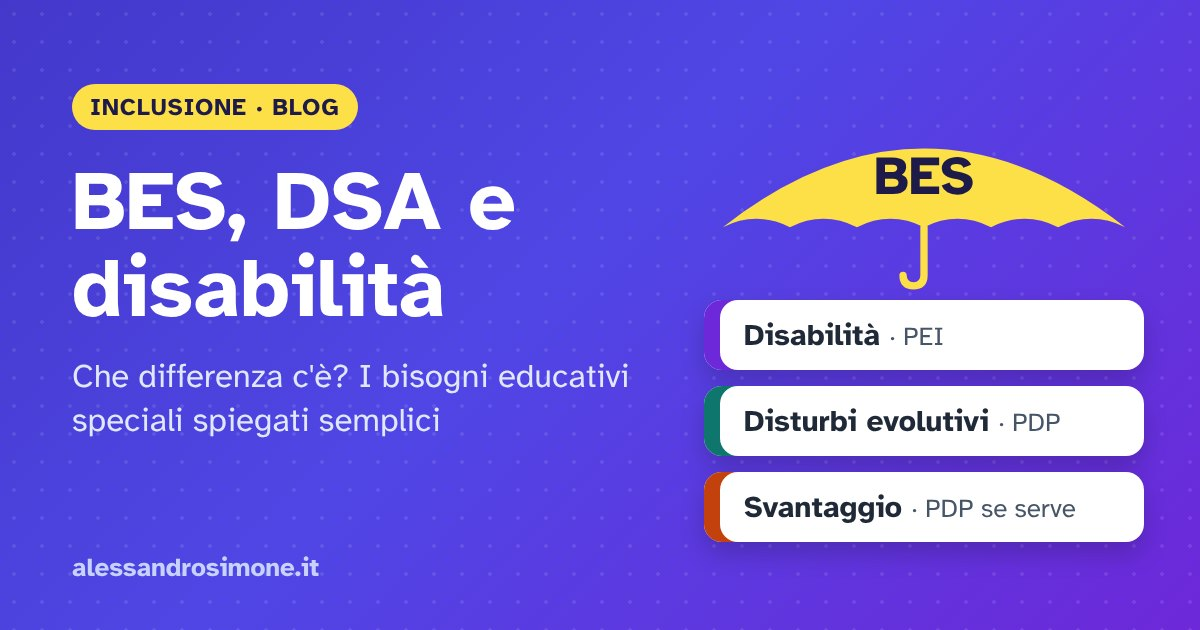
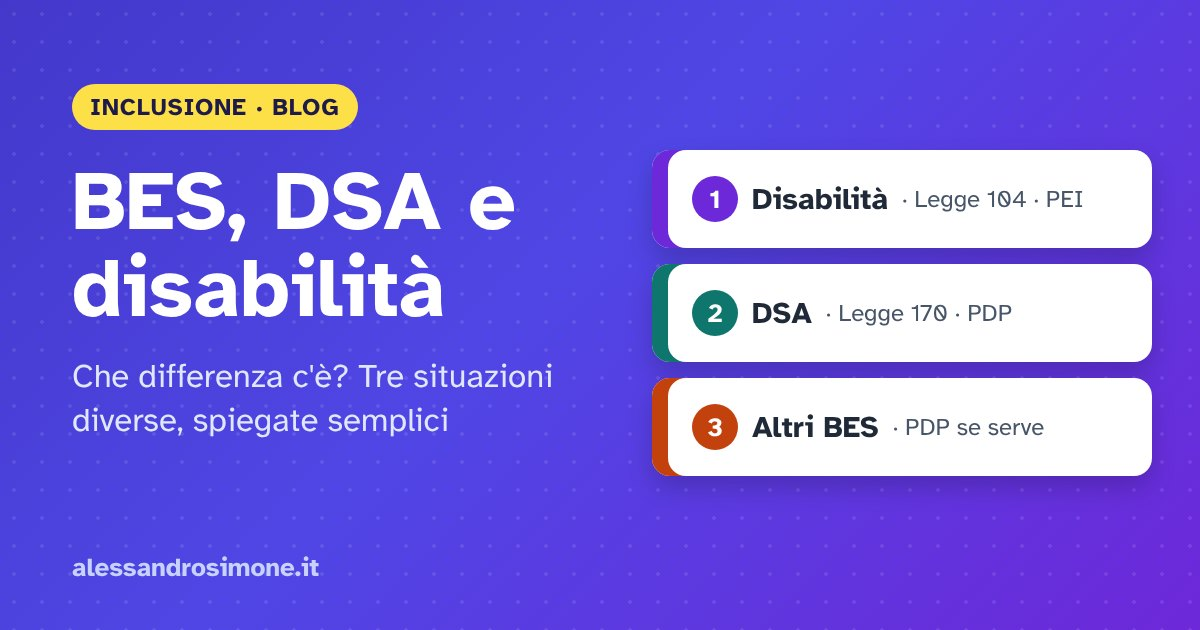
Articolo BES: tre situazioni distinte (104, DSA, altri BES), senza ombrello (bozza)
Su richiesta dell'autore la disabilita' e i DSA non sono piu' presentati
come parti dell'ombrello BES: l'articolo presenta tre situazioni distinte,
nell'ordine Legge 104, DSA (Legge 170) e altri BES, con una nota sul senso
ampio del termine nella direttiva del 2012. Copertina senza ombrello.
Bozza in revisione, non ancora su main.

Claude-Session: https://claude.ai/code/session_01TcAVAr6uKmskBb5yuLbEpH

Changed region(s): [[0.2158, 0.2111, 0.9867, 0.8746], [0.0617, 0.6333, 0.1542, 0.6937]]

diff --git a/articolo-bes-dsa-disabilita.html b/articolo-bes-dsa-disabilita.html
@@ -19,7 +19,7 @@
   <link rel="preconnect" href="https://fonts.gstatic.com" crossorigin>
   <link href="https://fonts.googleapis.com/css2?family=Atkinson+Hyperlegible:wght@400;700&family=Inter:wght@400;500;600;700&family=JetBrains+Mono:wght@400;600&family=Poppins:wght@700;800&display=swap" rel="stylesheet">
   <link rel="stylesheet" href="css/style.css?v=9">
-  <link rel="stylesheet" href="css/lettura-facilitata.css?v=2">
+  <link rel="stylesheet" href="css/lettura-facilitata.css?v=3">
   <link rel="canonical" href="https://alessandrosimone.it/articolo-bes-dsa-disabilita.html">
   <meta name="robots" content="index, follow, max-image-preview:large">
   <link rel="icon" type="image/svg+xml" href="favicon.svg">
@@ -33,7 +33,7 @@
   <meta property="og:image" content="https://alessandrosimone.it/articolo-bes-dsa-disabilita.jpg">
   <meta property="og:image:width" content="1200">
   <meta property="og:image:height" content="630">
-  <meta property="og:image:alt" content="Il titolo «BES, DSA e disabilità» e un ombrello con sotto tre riquadri: disabilità con il PEI, disturbi evolutivi con il PDP, svantaggio con il PDP se serve.">
+  <meta property="og:image:alt" content="Il titolo «BES, DSA e disabilità» e tre riquadri separati e numerati: 1 disabilità con il PEI, 2 DSA con il PDP, 3 altri BES con il PDP se serve.">
   <meta property="article:published_time" content="2026-11-14">
   <meta property="article:section" content="Inclusione">
   <meta name="twitter:card" content="summary_large_image">
@@ -93,7 +93,7 @@
     <h1>BES, DSA e disabilità: che differenza c'è? I bisogni educativi speciali spiegati semplici</h1>
     <p class="byline">14 novembre 2026 — di Alessandro Simone, docente di inclusione e di informatica</p>
 
-    <img class="hero-img" src="articolo-bes-dsa-disabilita.jpg" width="1200" height="630" alt="Copertina dell'articolo: il titolo «BES, DSA e disabilità» e un ombrello con la scritta BES. Sotto l'ombrello ci sono tre riquadri: disabilità con il PEI, disturbi evolutivi con il PDP, svantaggio con il PDP se serve.">
+    <img class="hero-img" src="articolo-bes-dsa-disabilita.jpg" width="1200" height="630" alt="Copertina dell'articolo: il titolo «BES, DSA e disabilità» e tre riquadri separati e numerati: 1 disabilità con il PEI, 2 DSA con il PDP, 3 altri BES con il PDP se serve.">
 
     <div class="reading-tools" role="group" aria-label="Strumenti di lettura">
       <span class="rt-label">Leggi come preferisci:</span>
@@ -110,18 +110,18 @@
     <div class="dsa-box tldr" id="in-breve">
       <h2 class="box-title"><span aria-hidden="true">📌</span> L'articolo in 30 secondi</h2>
       <ul>
-        <li><strong>BES</strong> vuol dire <strong>Bisogni Educativi Speciali</strong>: è un «ombrello» che raccoglie tre gruppi di studenti.</li>
+        <li>A scuola ci sono <strong>tre situazioni diverse</strong>, ognuna con le sue regole: <strong>disabilità</strong>, <strong>DSA</strong> e <strong>altri bisogni educativi speciali (BES)</strong>.</li>
         <li><strong>Disabilità certificata</strong> (Legge 104): la scuola prepara il <strong>PEI</strong> (Piano Educativo Individualizzato) e alla classe è assegnato un <strong>docente di sostegno</strong>.</li>
-        <li><strong>Disturbi evolutivi specifici</strong>: con un <strong>DSA</strong> (Legge 170) il <strong>PDP</strong> (Piano Didattico Personalizzato) è obbligatorio; per altri disturbi, come l'ADHD, lo decide il consiglio di classe. <strong>Non</strong> c'è il docente di sostegno.</li>
-        <li><strong>Svantaggio</strong> economico, sociale, linguistico o culturale: il <strong>PDP</strong> si prepara se lo decide il consiglio di classe, anche solo per un periodo.</li>
+        <li><strong>DSA</strong> (Legge 170): la scuola prepara il <strong>PDP</strong> (Piano Didattico Personalizzato), che è obbligatorio. <strong>Non</strong> c'è il docente di sostegno.</li>
+        <li><strong>Altri BES</strong>, come l'ADHD o una difficoltà con l'italiano: il <strong>PDP</strong> si prepara se lo decide il consiglio di classe, anche solo per un periodo.</li>
       </ul>
     </div>
 
     <nav class="dsa-box toc rt-skip" aria-label="Indice dell'articolo">
       <h2 class="box-title"><span aria-hidden="true">🧭</span> Indice</h2>
       <ol>
-        <li><a href="#cosa-sono">Cosa vuol dire BES?</a></li>
-        <li><a href="#tre-gruppi">I tre gruppi di BES</a></li>
+        <li><a href="#tre-situazioni">Tre situazioni diverse</a></li>
+        <li><a href="#tre-gruppi">Disabilità, DSA e BES, uno per uno</a></li>
         <li><a href="#tabella">BES, DSA e disabilità: la tabella che chiarisce tutto</a></li>
         <li><a href="#sigle">Le sigle da conoscere</a></li>
         <li><a href="#falsi-miti">Quattro falsi miti</a></li>
@@ -137,28 +137,21 @@
     <p>In questa guida ti spiego queste sigle una alla volta, con una tabella e qualche schema. Se una ti sfugge, la trovi in <a href="#sigle">Le sigle da conoscere</a>.</p>
     <p>Lavoro ogni giorno come <a href="/#chi-sono">docente di inclusione</a>, cioè docente di sostegno, e vorrei che tutti gli studenti e tutte le famiglie avessero le idee chiare su queste differenze.</p>
 
-    <h2 id="cosa-sono">Cosa vuol dire BES?</h2>
-    <p><strong>BES</strong> significa <strong>Bisogni Educativi Speciali</strong>. L'espressione è entrata ufficialmente nella scuola italiana con una direttiva ministeriale del <strong>27 dicembre 2012</strong>.</p>
-    <p>Un BES <strong>non è una diagnosi</strong>: è un modo di guardare lo studente. Vuol dire che lo studente, per un periodo più o meno lungo, ha bisogno di un'attenzione in più per imparare al meglio.</p>
-    <p>Il bisogno può essere <strong>permanente</strong>, come una disabilità, oppure <strong>temporaneo</strong>, come la difficoltà con l'italiano di chi è appena arrivato da un altro Paese.</p>
+    <h2 id="tre-situazioni">Tre situazioni diverse</h2>
+    <p>Quando uno studente ha bisogno di un aiuto in più, la scuola parte da una domanda: <strong>in quale situazione si trova?</strong> Le situazioni sono tre, e ognuna ha le sue regole.</p>
+    <p>Le prime due hanno una <strong>legge tutta loro</strong>: la Legge 104 per la disabilità e la Legge 170 per i DSA. La terza, quella dei <strong>BES</strong>, si basa su una direttiva del Ministero ed è la più flessibile.</p>
 
-    <figure class="dsa-figure" aria-labelledby="cap-omb">
-
-      <svg class="umbrella" viewBox="0 0 420 150" xmlns="http://www.w3.org/2000/svg" aria-hidden="true" focusable="false">
-        <path d="M18 104 Q210 -46 402 104 Q370 88 338 104 Q306 88 274 104 Q242 88 210 104 Q178 88 146 104 Q114 88 82 104 Q50 88 18 104 Z" fill="#4f46e5"/>
-        <path d="M210 104 V138 Q210 148 200 148 Q190 148 190 138" fill="none" stroke="#1e1b4b" stroke-width="5" stroke-linecap="round"/>
-        <text x="210" y="80" text-anchor="middle" font-family="Atkinson Hyperlegible, Verdana, Arial, sans-serif" font-weight="700" font-size="40" fill="#fff">BES</text>
-      </svg>
+    <figure class="dsa-figure" aria-labelledby="cap-tre">
       <div class="group-cards">
         <div class="g-card g1"><span class="g-ico" aria-hidden="true">🤝</span><span class="g-num">Gruppo 1</span><span class="g-name">Disabilità certificata</span><span class="g-doc">Legge 104 · PEI</span></div>
-        <div class="g-card g2"><span class="g-ico" aria-hidden="true">📖</span><span class="g-num">Gruppo 2</span><span class="g-name">Disturbi evolutivi specifici: DSA, ADHD e altri</span><span class="g-doc">PDP · obbligatorio per i DSA</span></div>
-        <div class="g-card g3"><span class="g-ico" aria-hidden="true">🌍</span><span class="g-num">Gruppo 3</span><span class="g-name">Svantaggio economico, sociale, linguistico o culturale</span><span class="g-doc">PDP se serve</span></div>
+        <div class="g-card g2"><span class="g-ico" aria-hidden="true">📖</span><span class="g-num">Gruppo 2</span><span class="g-name">DSA: dislessia, disortografia, disgrafia, discalculia</span><span class="g-doc">Legge 170 · PDP</span></div>
+        <div class="g-card g3"><span class="g-ico" aria-hidden="true">🧩</span><span class="g-num">Gruppo 3</span><span class="g-name">Altri BES: per esempio ADHD o difficoltà con l'italiano</span><span class="g-doc">PDP se serve</span></div>
       </div>
-      <figcaption id="cap-omb">I BES sono come un ombrello: sotto ci sono tre gruppi di studenti, ognuno con le sue regole e il suo documento.</figcaption>
+      <figcaption id="cap-tre">Tre situazioni diverse, ognuna con le sue regole e il suo documento: disabilità, DSA e altri bisogni educativi speciali.</figcaption>
     </figure>
 
-    <h2 id="tre-gruppi">I tre gruppi di BES</h2>
-    <p>La direttiva divide i BES in <strong>tre grandi gruppi</strong>. Ognuno ha le sue regole, il suo documento e i suoi aiuti.</p>
+    <h2 id="tre-gruppi">Disabilità, DSA e BES, uno per uno</h2>
+    <p>Vediamo i tre gruppi nell'ordine: prima la disabilità, poi i DSA, infine gli altri BES.</p>
 
     <div class="group-box g1">
       <h3><span aria-hidden="true">🤝</span> 1. Disabilità certificata</h3>
@@ -168,22 +161,22 @@
     </div>
 
     <div class="group-box g2">
-      <h3><span aria-hidden="true">📖</span> 2. Disturbi evolutivi specifici: DSA, ADHD e altri</h3>
-      <p>Qui ci sono i <strong>DSA</strong> (dislessia, disortografia, disgrafia e discalculia), riconosciuti dalla <strong>Legge 170 del 2010</strong>. Con una diagnosi di DSA del Servizio sanitario nazionale o di specialisti accreditati dalla Regione, la scuola deve preparare il <strong>PDP</strong>, il Piano Didattico Personalizzato.</p>
-      <p>Nello stesso gruppo la direttiva mette anche altri disturbi:</p>
-      <ul>
-        <li>l'<strong>ADHD</strong> (disturbo da deficit di attenzione e iperattività);</li>
-        <li>i disturbi del linguaggio o della coordinazione motoria;</li>
-        <li>il funzionamento intellettivo limite, detto anche «borderline»: non è una disabilità intellettiva, ma può rendere lo studio più faticoso.</li>
-      </ul>
-      <p>La Legge 170 vale solo per i DSA. Per questi altri disturbi, anche con una diagnosi, è il <strong>consiglio di classe</strong> a decidere se preparare un PDP, spiegando per iscritto la sua scelta.</p>
-      <p>Per tutti gli studenti di questo gruppo <strong>non è previsto il docente di sostegno</strong>, a meno che non ci sia anche una disabilità certificata. Se hai un DSA e studi informatica, ho scritto per te la guida <a href="articolo-informatica-dsa.html">Informatica e DSA</a>.</p>
+      <h3><span aria-hidden="true">📖</span> 2. DSA: Disturbi Specifici dell'Apprendimento</h3>
+      <p>Qui ci sono la <strong>dislessia</strong>, la <strong>disortografia</strong>, la <strong>disgrafia</strong> e la <strong>discalculia</strong>, riconosciute dalla <strong>Legge 170 del 2010</strong>.</p>
+      <p>Con una diagnosi di DSA del Servizio sanitario nazionale o di specialisti accreditati dalla Regione, la scuola deve preparare il <strong>PDP</strong>, il Piano Didattico Personalizzato.</p>
+      <p>Per i DSA <strong>non è previsto il docente di sostegno</strong>, a meno che non ci sia anche una disabilità certificata. Se hai un DSA e studi informatica, ho scritto per te la guida <a href="articolo-informatica-dsa.html">Informatica e DSA</a>.</p>
     </div>
 
     <div class="group-box g3">
-      <h3><span aria-hidden="true">🌍</span> 3. Svantaggio economico, sociale, linguistico o culturale</h3>
-      <p>Riguarda gli studenti in difficoltà per motivi <strong>economici, sociali, linguistici o culturali</strong>. Per esempio chi è arrivato da poco in Italia e sta ancora imparando l'italiano, o chi sta vivendo un periodo difficile in famiglia.</p>
-      <p>In questi casi è il <strong>consiglio di classe</strong> a decidere se serve un PDP, spesso <strong>per un periodo limitato</strong>. Non è necessaria una certificazione medica.</p>
+      <h3><span aria-hidden="true">🧩</span> 3. Altri BES: i bisogni educativi speciali</h3>
+      <p><strong>BES</strong> significa <strong>Bisogni Educativi Speciali</strong>. A scuola, con questa sigla, si indicano gli studenti che hanno bisogno di un'attenzione in più ma <strong>non</strong> hanno una certificazione di disabilità né una diagnosi di DSA.</p>
+      <p>Un BES <strong>non è una diagnosi</strong>: è un modo di guardare lo studente. Il bisogno può essere permanente oppure temporaneo. Ci sono due grandi casi:</p>
+      <ul>
+        <li><strong>altri disturbi evolutivi</strong>, come l'<strong>ADHD</strong> (disturbo da deficit di attenzione e iperattività), i disturbi del linguaggio o della coordinazione motoria, o il funzionamento intellettivo limite, detto anche «borderline», che non è una disabilità intellettiva ma può rendere lo studio più faticoso;</li>
+        <li><strong>svantaggio economico, sociale, linguistico o culturale</strong>: per esempio chi è arrivato da poco in Italia e sta ancora imparando l'italiano, o chi sta vivendo un periodo difficile in famiglia.</li>
+      </ul>
+      <p>In questi casi è il <strong>consiglio di classe</strong> a decidere se serve un PDP, spiegando per iscritto la sua scelta, spesso <strong>per un periodo limitato</strong>. Non è necessaria una certificazione medica e non è previsto il docente di sostegno.</p>
+      <p class="note-dir">Una precisazione: nella direttiva ministeriale del 27 dicembre 2012, che ha introdotto i BES, il termine ha un senso più ampio e comprende anche disabilità e DSA. Nella pratica della scuola, però, si usa di solito per gli altri casi, ed è questo il significato che uso nella guida.</p>
     </div>
 
     <h2 id="tabella">BES, DSA e disabilità: la tabella che chiarisce tutto</h2>
@@ -191,22 +184,22 @@
 
     <figure class="dsa-figure" aria-labelledby="cap-tab">
       <table class="cmp-table">
-        <caption class="sr-only">Confronto tra i tre gruppi di BES: disabilità, disturbi evolutivi specifici e svantaggio</caption>
-        <thead><tr><th scope="col">Che cosa</th><th scope="col" class="g1"><span aria-hidden="true">🤝</span> Gruppo 1 · Disabilità</th><th scope="col" class="g2"><span aria-hidden="true">📖</span> Gruppo 2 · Disturbi evolutivi</th><th scope="col" class="g3"><span aria-hidden="true">🌍</span> Gruppo 3 · Svantaggio</th></tr></thead>
+        <caption class="sr-only">Confronto tra disabilità, DSA e altri BES</caption>
+        <thead><tr><th scope="col">Che cosa</th><th scope="col" class="g1"><span aria-hidden="true">🤝</span> Gruppo 1 · Disabilità</th><th scope="col" class="g2"><span aria-hidden="true">📖</span> Gruppo 2 · DSA</th><th scope="col" class="g3"><span aria-hidden="true">🧩</span> Gruppo 3 · Altri BES</th></tr></thead>
         <tbody>
-          <tr><th scope="row">Cosa serve</th><td>Una certificazione di disabilità ai fini dell'inclusione scolastica</td><td>Una diagnosi: per i DSA, del Servizio sanitario nazionale o di specialisti accreditati</td><td>Nessuna certificazione: valuta il consiglio di classe</td></tr>
-          <tr><th scope="row">Norme di riferimento</th><td>Legge 104 del 1992 e decreto legislativo 66 del 2017</td><td>Legge 170 del 2010 per i DSA; direttiva del 2012 per gli altri disturbi</td><td>Direttiva del 27 dicembre 2012 e circolari del 2013</td></tr>
+          <tr><th scope="row">Cosa serve</th><td>Una certificazione di disabilità ai fini dell'inclusione scolastica</td><td>Una diagnosi di DSA del Servizio sanitario nazionale o di specialisti accreditati</td><td>Nessuna certificazione obbligatoria: valuta il consiglio di classe</td></tr>
+          <tr><th scope="row">Norme di riferimento</th><td>Legge 104 del 1992 e decreto legislativo 66 del 2017</td><td>Legge 170 del 2010 e Linee guida del 2011</td><td>Direttiva del 27 dicembre 2012 e circolari del 2013</td></tr>
           <tr><th scope="row">Documento</th><td>PEI (Piano Educativo Individualizzato)</td><td>PDP (Piano Didattico Personalizzato)</td><td>PDP, se il consiglio di classe lo decide</td></tr>
           <tr><th scope="row">Chi lo scrive</th><td>Il GLO (Gruppo di Lavoro Operativo per l'inclusione)</td><td>Il consiglio di classe, insieme alla famiglia</td><td>Il consiglio di classe, insieme alla famiglia</td></tr>
-          <tr><th scope="row">È obbligatorio?</th><td>Sì</td><td>Sì per i DSA; per gli altri disturbi decide il consiglio di classe</td><td>No, decide il consiglio di classe</td></tr>
+          <tr><th scope="row">È obbligatorio?</th><td>Sì</td><td>Sì</td><td>No: decide il consiglio di classe e spiega per iscritto il perché</td></tr>
           <tr><th scope="row">Docente di sostegno</th><td>Sì, assegnato alla classe</td><td>No</td><td>No</td></tr>
           <tr><th scope="row">Titolo finale</th><td>Diploma; attestato se il percorso è differenziato</td><td>Diploma; attestato solo con esonero dalle lingue straniere</td><td>Diploma</td></tr>
         </tbody>
       </table>
       <div class="cmp-cards">
         <div class="cmp-card g1"><div class="cc-title"><span aria-hidden="true">🤝</span> Gruppo 1 · Disabilità certificata</div><dl><dt>Cosa serve</dt><dd>Una certificazione di disabilità ai fini dell'inclusione scolastica</dd><dt>Norme di riferimento</dt><dd>Legge 104 del 1992 e decreto legislativo 66 del 2017</dd><dt>Documento</dt><dd>PEI (Piano Educativo Individualizzato)</dd><dt>Chi lo scrive</dt><dd>Il GLO (Gruppo di Lavoro Operativo per l'inclusione)</dd><dt>È obbligatorio?</dt><dd>Sì</dd><dt>Docente di sostegno</dt><dd>Sì, assegnato alla classe</dd><dt>Titolo finale</dt><dd>Diploma; attestato se il percorso è differenziato</dd></dl></div>
-        <div class="cmp-card g2"><div class="cc-title"><span aria-hidden="true">📖</span> Gruppo 2 · Disturbi evolutivi specifici (DSA, ADHD e altri)</div><dl><dt>Cosa serve</dt><dd>Una diagnosi: per i DSA, del Servizio sanitario nazionale o di specialisti accreditati</dd><dt>Norme di riferimento</dt><dd>Legge 170 del 2010 per i DSA; direttiva del 2012 per gli altri disturbi</dd><dt>Documento</dt><dd>PDP (Piano Didattico Personalizzato)</dd><dt>Chi lo scrive</dt><dd>Il consiglio di classe, insieme alla famiglia</dd><dt>È obbligatorio?</dt><dd>Sì per i DSA; per gli altri disturbi decide il consiglio di classe</dd><dt>Docente di sostegno</dt><dd>No</dd><dt>Titolo finale</dt><dd>Diploma; attestato solo con esonero dalle lingue straniere</dd></dl></div>
-        <div class="cmp-card g3"><div class="cc-title"><span aria-hidden="true">🌍</span> Gruppo 3 · Svantaggio economico, sociale, linguistico o culturale</div><dl><dt>Cosa serve</dt><dd>Nessuna certificazione: valuta il consiglio di classe</dd><dt>Norme di riferimento</dt><dd>Direttiva del 27 dicembre 2012 e circolari del 2013</dd><dt>Documento</dt><dd>PDP, se il consiglio di classe lo decide</dd><dt>Chi lo scrive</dt><dd>Il consiglio di classe, insieme alla famiglia</dd><dt>È obbligatorio?</dt><dd>No, decide il consiglio di classe</dd><dt>Docente di sostegno</dt><dd>No</dd><dt>Titolo finale</dt><dd>Diploma</dd></dl></div>
+        <div class="cmp-card g2"><div class="cc-title"><span aria-hidden="true">📖</span> Gruppo 2 · DSA (Disturbi Specifici dell'Apprendimento)</div><dl><dt>Cosa serve</dt><dd>Una diagnosi di DSA del Servizio sanitario nazionale o di specialisti accreditati</dd><dt>Norme di riferimento</dt><dd>Legge 170 del 2010 e Linee guida del 2011</dd><dt>Documento</dt><dd>PDP (Piano Didattico Personalizzato)</dd><dt>Chi lo scrive</dt><dd>Il consiglio di classe, insieme alla famiglia</dd><dt>È obbligatorio?</dt><dd>Sì</dd><dt>Docente di sostegno</dt><dd>No</dd><dt>Titolo finale</dt><dd>Diploma; attestato solo con esonero dalle lingue straniere</dd></dl></div>
+        <div class="cmp-card g3"><div class="cc-title"><span aria-hidden="true">🧩</span> Gruppo 3 · Altri BES (bisogni educativi speciali)</div><dl><dt>Cosa serve</dt><dd>Nessuna certificazione obbligatoria: valuta il consiglio di classe</dd><dt>Norme di riferimento</dt><dd>Direttiva del 27 dicembre 2012 e circolari del 2013</dd><dt>Documento</dt><dd>PDP, se il consiglio di classe lo decide</dd><dt>Chi lo scrive</dt><dd>Il consiglio di classe, insieme alla famiglia</dd><dt>È obbligatorio?</dt><dd>No: decide il consiglio di classe e spiega per iscritto il perché</dd><dt>Docente di sostegno</dt><dd>No</dd><dt>Titolo finale</dt><dd>Diploma</dd></dl></div>
       </div>
       <figcaption id="cap-tab">Per ognuno dei tre gruppi la tabella indica cosa serve, le norme, il documento e chi lo scrive. Indica anche se il documento è obbligatorio, se c'è il docente di sostegno e quale titolo si ottiene alla fine.</figcaption>
     </figure>
@@ -217,21 +210,21 @@
 
     <figure class="dsa-figure" aria-labelledby="cap-sig">
       <div class="sigle-grid">
-        <div class="sigla"><b>BES</b><span>Bisogni Educativi Speciali: l'ombrello che comprende tutti i gruppi.</span></div>
-        <div class="sigla"><b>DSA</b><span>Disturbi Specifici dell'Apprendimento: dislessia, disortografia, disgrafia, discalculia.</span></div>
-        <div class="sigla"><b>ADHD</b><span>Disturbo da deficit di attenzione e iperattività.</span></div>
-        <div class="sigla"><b>PEI</b><span>Piano Educativo Individualizzato: il documento per gli studenti con disabilità certificata.</span></div>
-        <div class="sigla"><b>PDP</b><span>Piano Didattico Personalizzato: il documento per gli studenti con DSA o con altri BES.</span></div>
-        <div class="sigla"><b>GLO</b><span>Gruppo di Lavoro Operativo per l'inclusione: il gruppo che elabora il PEI.</span></div>
         <div class="sigla"><b>L. 104</b><span>La legge del 1992 sui diritti delle persone con disabilità.</span></div>
+        <div class="sigla"><b>PEI</b><span>Piano Educativo Individualizzato: il documento per gli studenti con disabilità certificata.</span></div>
+        <div class="sigla"><b>GLO</b><span>Gruppo di Lavoro Operativo per l'inclusione: il gruppo che elabora il PEI.</span></div>
+        <div class="sigla"><b>DSA</b><span>Disturbi Specifici dell'Apprendimento: dislessia, disortografia, disgrafia, discalculia.</span></div>
         <div class="sigla"><b>L. 170</b><span>La legge del 2010 sui DSA a scuola.</span></div>
+        <div class="sigla"><b>PDP</b><span>Piano Didattico Personalizzato: il documento per gli studenti con DSA o con altri BES.</span></div>
+        <div class="sigla"><b>BES</b><span>Bisogni Educativi Speciali: a scuola indica di solito chi ha bisogno di un'attenzione in più senza 104 né diagnosi di DSA.</span></div>
+        <div class="sigla"><b>ADHD</b><span>Disturbo da deficit di attenzione e iperattività.</span></div>
       </div>
-      <figcaption id="cap-sig">Le otto sigle più usate a scuola e il loro significato.</figcaption>
+      <figcaption id="cap-sig">Le otto sigle più usate a scuola e il loro significato, nell'ordine dei tre gruppi.</figcaption>
     </figure>
 
     <h2 id="falsi-miti">Quattro falsi miti</h2>
     <p>Ci sono alcune idee sbagliate che sento spesso. Vediamole una per una.</p>
-    <div class="myth"><p class="m-false"><span aria-hidden="true">❌</span> Falso: «BES vuol dire disabilità».</p><p><strong>In realtà</strong> la disabilità è solo uno dei tre gruppi. Anche chi ha un DSA, o una difficoltà temporanea con la lingua, ha un BES.</p></div>
+    <div class="myth"><p class="m-false"><span aria-hidden="true">❌</span> Falso: «BES, DSA e disabilità sono la stessa cosa».</p><p><strong>In realtà</strong> sono tre situazioni diverse, con leggi, documenti e aiuti diversi. Confonderle porta a chiedere aiuti sbagliati, o a non chiedere quelli giusti.</p></div>
     <div class="myth"><p class="m-false"><span aria-hidden="true">❌</span> Falso: «Con un DSA arriva l'insegnante di sostegno».</p><p><strong>In realtà</strong> il sostegno è previsto per la disabilità certificata. Con un DSA si lavora con il PDP. Il PDP prevede <a href="articolo-informatica-dsa.html#cosa-sono">strumenti compensativi</a>, come la sintesi vocale, e misure dispensative, come più tempo nelle verifiche.</p></div>
     <div class="myth"><p class="m-false"><span aria-hidden="true">❌</span> Falso: «Con il PDP si fa un programma più facile».</p><p><strong>In realtà</strong> il PDP non abbassa il traguardo. Con un DSA gli obiettivi restano quelli della classe: cambiano il modo di studiare e quello di fare le verifiche. Per altri BES, per esempio chi sta ancora imparando l'italiano, il PDP può alleggerire alcuni contenuti per un periodo, per riportare lo studente al passo con la classe.</p></div>
     <div class="myth"><p class="m-false"><span aria-hidden="true">❌</span> Falso: «Il docente di sostegno è l'insegnante personale dello studente».</p><p><strong>In realtà</strong> è un docente <strong>della classe</strong>: è contitolare, cioè ha le stesse responsabilità degli altri docenti verso tutti gli studenti. Cura in particolare il percorso previsto dal PEI, ma lavora con tutti e aiuta l'intera classe a diventare più inclusiva: è il lavoro che faccio ogni giorno.</p></div>
@@ -242,8 +235,8 @@
     <figure class="dsa-figure" aria-labelledby="cap-per">
       <div class="path-grid">
         <div class="path-col g1"><div class="pc-title"><span aria-hidden="true">🤝</span> Percorso del gruppo 1 · Disabilità certificata</div><ol role="list"><li>Il medico invia all'INPS il certificato medico introduttivo</li><li>Una commissione accerta la disabilità ai fini dell'inclusione scolastica</li><li>La famiglia consegna alla scuola la certificazione e il Profilo di funzionamento</li><li>Il GLO approva il PEI, di norma entro il 31 ottobre, e lo verifica durante l'anno</li></ol></div>
-        <div class="path-col g2"><div class="pc-title"><span aria-hidden="true">📖</span> Percorso del gruppo 2 · Disturbi evolutivi specifici (DSA, ADHD e altri)</div><ol role="list"><li>Valutazione specialistica (ASL o centro accreditato) e diagnosi</li><li>La famiglia consegna la diagnosi alla scuola</li><li>Con un DSA il consiglio di classe scrive il PDP insieme alla famiglia; per gli altri disturbi decide se farlo</li><li>Il PDP va preparato entro il primo trimestre di scuola, o appena possibile se la diagnosi arriva durante l'anno</li></ol></div>
-        <div class="path-col g3"><div class="pc-title"><span aria-hidden="true">🌍</span> Percorso del gruppo 3 · Svantaggio economico, sociale, linguistico o culturale</div><ol role="list"><li>I docenti notano una difficoltà</li><li>Il consiglio di classe ne parla con la famiglia</li><li>Decide se serve un PDP e lo scrive</li><li>Il PDP può essere temporaneo: dura il tempo necessario</li></ol></div>
+        <div class="path-col g2"><div class="pc-title"><span aria-hidden="true">📖</span> Percorso del gruppo 2 · DSA</div><ol role="list"><li>Valutazione specialistica (ASL o centro accreditato) e diagnosi di DSA</li><li>La famiglia consegna la diagnosi alla scuola</li><li>Il consiglio di classe scrive il PDP insieme alla famiglia</li><li>Il PDP va preparato entro il primo trimestre di scuola, o appena possibile se la diagnosi arriva durante l'anno</li></ol></div>
+        <div class="path-col g3"><div class="pc-title"><span aria-hidden="true">🧩</span> Percorso del gruppo 3 · Altri BES</div><ol role="list"><li>I docenti notano una difficoltà, oppure la famiglia porta una diagnosi (per esempio di ADHD)</li><li>Il consiglio di classe ne parla con la famiglia</li><li>Decide se serve un PDP e spiega per iscritto la sua scelta</li><li>Il PDP può essere temporaneo: dura il tempo necessario</li></ol></div>
       </div>
       <figcaption id="cap-per">I tre percorsi, passo dopo passo: dalla difficoltà notata al documento che la scuola prepara.</figcaption>
     </figure>
@@ -256,24 +249,24 @@
     <ul class="icon-list">
       <li><span class="t-ico" aria-hidden="true">🤝</span><span><strong>Con una disabilità</strong> il lavoro segue il PEI, che può mantenere gli stessi obiettivi della classe. Possono servire <strong>ausili</strong>, come tastiere facilitate, ingranditori dello schermo o sintesi vocale. Quando serve, si procede per gradi, per esempio con la <strong>programmazione a blocchi</strong>: invece di scrivere i comandi, si trascinano blocchi colorati.</span></li>
       <li><span class="t-ico" aria-hidden="true">📖</span><span><strong>Con un DSA</strong> sono utili l'editor con i colori, la sintesi vocale, i diagrammi di flusso e le verifiche al computer. Trovi tutto nella guida <a href="articolo-informatica-dsa.html#strumenti">Informatica e DSA</a>.</span></li>
-      <li><span class="t-ico" aria-hidden="true">🌍</span><span><strong>Se l'italiano è ancora difficile</strong>, l'informatica ha un vantaggio: le parole chiave del codice, come <code>if</code>, <code>for</code> e <code>print</code>, sono poche, sempre le stesse in tutto il mondo e non dipendono dall'italiano. Sono utili un <strong>glossario dei termini</strong> con immagini, consegne brevi e schemi visivi, come il <a href="articolo-diagramma-di-flusso.html">diagramma di flusso</a>.</span></li>
-      <li><span class="t-ico" aria-hidden="true">🧩</span><span><strong>Per tutta la classe</strong> consegne chiare, esempi in formato digitale e schemi visivi aiutano chi ha un BES e, in realtà, tutti. È l'idea della <strong>didattica inclusiva</strong>, la stessa con cui ho costruito le <a href="lezioni.html">lezioni gratuite</a> di questo sito.</span></li>
+      <li><span class="t-ico" aria-hidden="true">🧩</span><span><strong>Con un altro BES</strong> aiutano consegne brevi, una richiesta alla volta e attività pratiche al computer. <strong>Se l'italiano è ancora difficile</strong>, l'informatica ha un vantaggio: le parole chiave del codice, come <code>if</code>, <code>for</code> e <code>print</code>, sono poche, sempre le stesse in tutto il mondo e non dipendono dall'italiano. Sono utili anche un <strong>glossario dei termini</strong> con immagini e schemi visivi, come il <a href="articolo-diagramma-di-flusso.html">diagramma di flusso</a>.</span></li>
+      <li><span class="t-ico" aria-hidden="true">🏫</span><span><strong>Per tutta la classe</strong> consegne chiare, esempi in formato digitale e schemi visivi aiutano chi ha un bisogno educativo speciale e, in realtà, tutti. È l'idea della <strong>didattica inclusiva</strong>, la stessa con cui ho costruito le <a href="lezioni.html">lezioni gratuite</a> di questo sito.</span></li>
     </ul>
 
     <h2 id="sintesi">In sintesi</h2>
-    <p><strong>BES</strong> è l'ombrello. Sotto ci sono tre gruppi, ognuno con il suo documento:</p>
+    <p>Disabilità, DSA e BES sono <strong>tre situazioni diverse</strong>, ognuna con il suo documento:</p>
     <ul class="icon-list">
-      <li><span class="t-ico" aria-hidden="true">🤝</span><span><strong>disabilità certificata</strong>: PEI e docente di sostegno;</span></li>
-      <li><span class="t-ico" aria-hidden="true">📖</span><span><strong>disturbi evolutivi specifici</strong>: PDP, obbligatorio per i DSA; per gli altri disturbi, come l'ADHD, lo decide il consiglio di classe;</span></li>
-      <li><span class="t-ico" aria-hidden="true">🌍</span><span><strong>svantaggio economico, sociale, linguistico o culturale</strong>: PDP se lo decide il consiglio di classe, anche per un periodo limitato.</span></li>
+      <li><span class="t-ico" aria-hidden="true">🤝</span><span><strong>disabilità certificata</strong> (Legge 104): PEI e docente di sostegno;</span></li>
+      <li><span class="t-ico" aria-hidden="true">📖</span><span><strong>DSA</strong> (Legge 170): PDP obbligatorio;</span></li>
+      <li><span class="t-ico" aria-hidden="true">🧩</span><span><strong>altri BES</strong>, come l'ADHD o una difficoltà con l'italiano: PDP se lo decide il consiglio di classe, anche per un periodo limitato.</span></li>
     </ul>
-    <p>Qualunque sia il gruppo, l'obiettivo è lo stesso: permettere a ogni studente di imparare <strong>al meglio delle sue possibilità</strong>. E le idee che aiutano chi ha un BES finiscono quasi sempre per aiutare tutta la classe.</p>
+    <p>Qualunque sia la situazione, l'obiettivo è lo stesso: permettere a ogni studente di imparare <strong>al meglio delle sue possibilità</strong>. E le idee che aiutano chi ha un bisogno in più finiscono quasi sempre per aiutare tutta la classe.</p>
     <p class="norme rt-skip">Riferimenti normativi: Legge 5 febbraio 1992, n. 104 (art. 13, c. 6); Legge 8 ottobre 2010, n. 170; D.M. 12 luglio 2011, n. 5669 e Linee guida allegate; Direttiva ministeriale 27 dicembre 2012; Circolare ministeriale 6 marzo 2013, n. 8; Nota ministeriale 22 novembre 2013, prot. 2563; D.Lgs. 13 aprile 2017, n. 62, art. 20; D.Lgs. 13 aprile 2017, n. 66 (modificato dal D.Lgs. 96/2019); D.I. 29 dicembre 2020, n. 182, modificato dal D.M. 1 agosto 2023, n. 153 (modelli di PEI); D.Lgs. 3 maggio 2024, n. 62 (valutazione di base).</p>
 
     <h2 id="faq">Domande frequenti</h2>
     <details class="dsa-faq">
       <summary>BES e DSA sono la stessa cosa?<span aria-hidden="true">+</span></summary>
-      <p>No. I BES sono l'ombrello, i DSA sono una parte di uno dei tre gruppi. Chi ha un DSA ha anche un BES, ma non tutti gli studenti con un BES hanno un DSA: può trattarsi di una disabilità, di un altro disturbo come l'ADHD o di una difficoltà temporanea.</p>
+      <p>No. I DSA hanno una legge tutta loro, la 170, e con la diagnosi il PDP è obbligatorio. Con «BES», a scuola, si indicano di solito gli altri bisogni educativi speciali, come l'ADHD o una difficoltà con l'italiano: per questi il PDP lo decide il consiglio di classe.</p>
     </details>
     <details class="dsa-faq">
       <summary>Per avere un PDP serve per forza una diagnosi?<span aria-hidden="true">+</span></summary>
@@ -293,7 +286,7 @@
     </details>
     <details class="dsa-faq">
       <summary>Chi decide se uno studente ha un BES?<span aria-hidden="true">+</span></summary>
-      <p>Per la disabilità e per i DSA servono la certificazione o la diagnosi dei professionisti della salute. Per gli altri BES è il consiglio di classe a riconoscere il bisogno, osservando lo studente e coinvolgendo la famiglia.</p>
+      <p>È il consiglio di classe a riconoscere il bisogno, osservando lo studente, coinvolgendo la famiglia e tenendo conto di eventuali diagnosi. Per la disabilità e per i DSA, invece, servono la certificazione o la diagnosi dei professionisti della salute.</p>
     </details>
     <details class="dsa-faq">
       <summary>Un BES è per sempre? Resta scritto sul diploma?<span aria-hidden="true">+</span></summary>
@@ -310,7 +303,7 @@
     <div class="read-next rt-skip">
       <h2 class="box-title"><span aria-hidden="true">📚</span> Leggi anche</h2>
       <div class="rn-grid">
-        <a href="articolo-informatica-dsa.html"><span aria-hidden="true">🧩</span><strong>Informatica e DSA: strategie e strumenti compensativi</strong></a>
+        <a href="articolo-informatica-dsa.html"><span aria-hidden="true">📖</span><strong>Informatica e DSA: strategie e strumenti compensativi</strong></a>
         <a href="articolo-diagramma-di-flusso.html"><span aria-hidden="true">📐</span><strong>Cos'è un diagramma di flusso e come si legge</strong></a>
         <a href="articolo-chatgpt-studiare.html"><span aria-hidden="true">🤖</span><strong>Come usare ChatGPT per studiare meglio</strong></a>
       </div>
@@ -337,7 +330,7 @@
   </div>
   <div class="footer-bottom">© <span id="year"></span> AlessandroSimone.it — Tutti i diritti riservati &nbsp;·&nbsp; <a href="cookie-policy.html" style="color:rgba(255,255,255,.5)">Cookie Policy</a></div>
 </footer>
-<script src="js/lettura-facilitata.js?v=2"></script>
+<script src="js/lettura-facilitata.js?v=3"></script>
 <script src="js/main.js?v=9"></script>
 <script src="js/search.js"></script>
 <script src="js/cookie-consent.js"></script>

diff --git a/articolo-informatica-dsa.html b/articolo-informatica-dsa.html
@@ -19,7 +19,7 @@
   <link rel="preconnect" href="https://fonts.gstatic.com" crossorigin>
   <link href="https://fonts.googleapis.com/css2?family=Atkinson+Hyperlegible:wght@400;700&family=Inter:wght@400;500;600;700&family=JetBrains+Mono:wght@400;600&family=Poppins:wght@700;800&display=swap" rel="stylesheet">
   <link rel="stylesheet" href="css/style.css?v=9">
-  <link rel="stylesheet" href="css/lettura-facilitata.css?v=2">
+  <link rel="stylesheet" href="css/lettura-facilitata.css?v=3">
   <link rel="canonical" href="https://alessandrosimone.it/articolo-informatica-dsa.html">
   <meta name="robots" content="index, follow, max-image-preview:large">
   <link rel="icon" type="image/svg+xml" href="favicon.svg">
@@ -146,7 +146,7 @@
       <li><span class="t-ico" aria-hidden="true">🔢</span><strong>Discalculia</strong>: difficoltà con i numeri e i calcoli.</li>
     </ul>
     <p>Spesso se ne presenta più di uno insieme, e ogni persona è diversa. Per questo gli strumenti vanno <strong>scelti su misura</strong>.</p>
-    <p>I DSA fanno parte di un gruppo più ampio, i <strong>BES</strong> (Bisogni Educativi Speciali): trovi tutte le differenze nella guida <a href="articolo-bes-dsa-disabilita.html">BES, DSA e disabilità</a>.</p>
+    <p>Che differenza c'è tra DSA, disabilità e <strong>BES</strong> (Bisogni Educativi Speciali)? Lo spiego nella guida <a href="articolo-bes-dsa-disabilita.html">BES, DSA e disabilità</a>.</p>
 
     <div class="dsa-box glossary">
       <h3 class="box-title"><span aria-hidden="true">📚</span> Tre parole da conoscere</h3>
@@ -564,7 +564,7 @@ for numero in range(1, 4):
   </div>
   <div class="footer-bottom">© <span id="year"></span> AlessandroSimone.it — Tutti i diritti riservati &nbsp;·&nbsp; <a href="cookie-policy.html" style="color:rgba(255,255,255,.5)">Cookie Policy</a></div>
 </footer>
-<script src="js/lettura-facilitata.js?v=2"></script>
+<script src="js/lettura-facilitata.js?v=3"></script>
 <script src="js/main.js?v=9"></script>
 <script src="js/search.js"></script>
 <script src="js/cookie-consent.js"></script>

diff --git a/css/lettura-facilitata.css b/css/lettura-facilitata.css
@@ -150,6 +150,7 @@
 .g-card .g-doc { display: inline-block; background: #fff; border: 1px solid var(--g-bd); color: var(--g); font-weight: 700; border-radius: 999px; padding: .1rem .6rem; font-size: calc(1rem * var(--rt-scale)); }
 .group-box { background: var(--g-bg); border: 2px solid var(--g-bd); border-left: 8px solid var(--g); border-radius: 16px; padding: .3rem 1.2rem .5rem; margin: 1.2rem 0; }
 .article-dsa .article-body .group-box h3 { margin-top: .9rem; color: var(--g); }
+.article-dsa .article-body .note-dir { font-size: calc(1rem * var(--rt-scale)); color: #374151; border-top: 1px dashed var(--g-bd); padding-top: .7rem; }
 .cmp-table { width: 100%; border-collapse: separate; border-spacing: 0; background: #fff; border: 2px solid #e5e7eb; border-radius: 14px; overflow: hidden; font-size: calc(1rem * var(--rt-scale)); line-height: 1.5; }
 .cmp-table th, .cmp-table td { padding: .7rem .8rem; text-align: left; vertical-align: top; border-bottom: 1px solid #e5e7eb; color: #1f2937; }
 .cmp-table thead th { color: #fff; font-weight: 700; background: #1e1b4b; }
